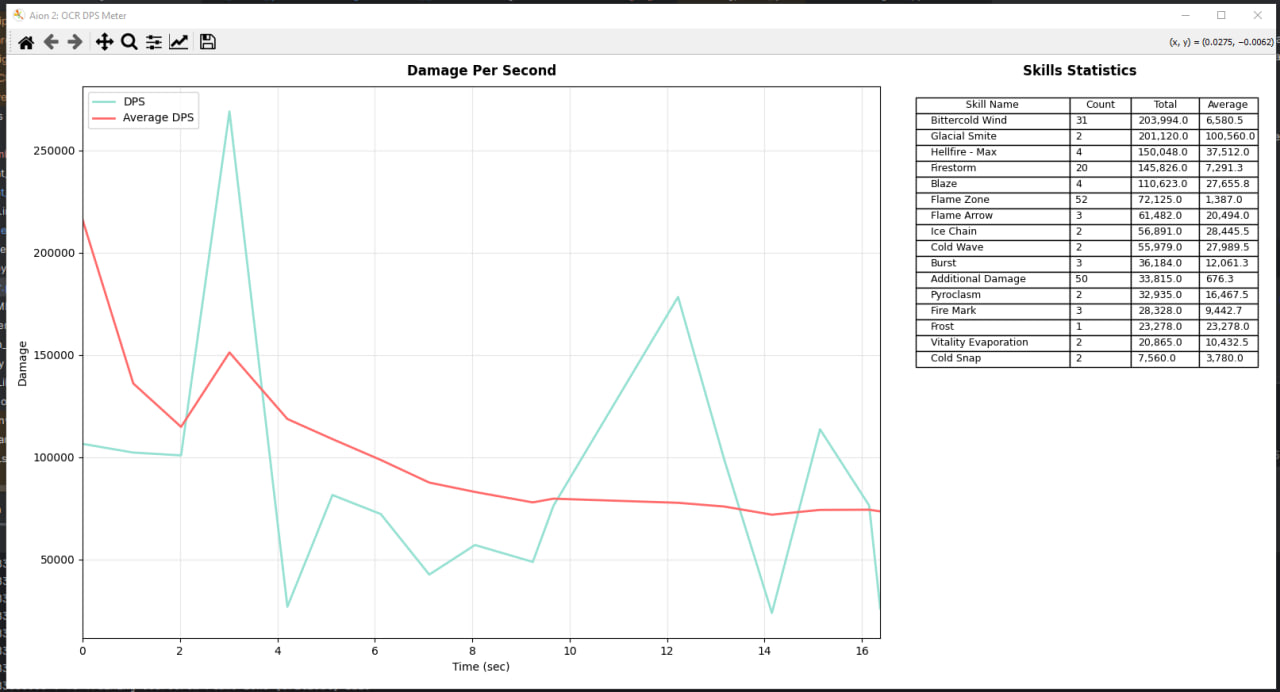
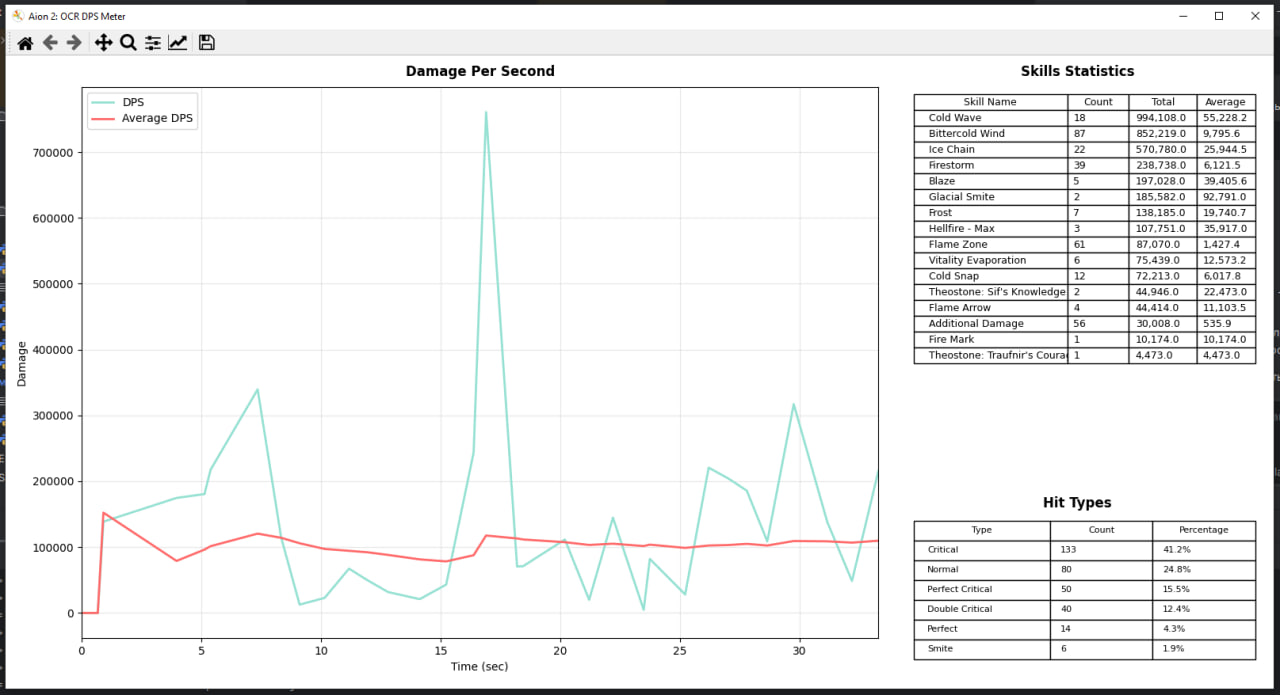
add multiplier stats

diff --git a/plotter.py b/plotter.py
@@ -18,8 +18,10 @@ class Plotter:
         self.fig = None
         self.ax = None
         self.ax_table = None
+        self.ax_multipliers = None
         self.animation_plot = None
         self.animation_table = None
+        self.animation_multipliers = None
         self.annot = None
 
     def run_blocking(self):
@@ -35,23 +37,33 @@ class Plotter:
         self.fig = plt.figure(figsize=(16, 8))
         self.fig.canvas.manager.set_window_title('Aion 2: OCR DPS Meter')
 
-        # Grid: graph (70%), table (30%)
-        gs = GridSpec(1, 2, figure=self.fig, width_ratios=[7, 3], 
-                     wspace=0.05, left=0.06, right=0.98, top=0.95, bottom=0.08)
+        # Grid: graph (70%) on left, two tables (30%) on right
+        gs_main = GridSpec(1, 2, figure=self.fig, width_ratios=[7, 3], 
+                          wspace=0.05, left=0.06, right=0.98, top=0.95, bottom=0.08)
 
-        # Main DPS graph
-        self.ax = self.fig.add_subplot(gs[0, 0])
+        # Subdivide right column into two rows for two tables
+        gs_right = gs_main[0, 1].subgridspec(2, 1, height_ratios=[3, 1], hspace=0.3)
+
+        # Main DPS graph (left side)
+        self.ax = self.fig.add_subplot(gs_main[0, 0])
         self.ax.set_xlabel('Time (sec)')
         self.ax.set_ylabel('Damage')
         self.ax.set_title('Damage Per Second', fontsize=12, fontweight='bold', pad=10)
         self.ax.grid(True, alpha=0.3)
 
-        # Skill table area
-        self.ax_table = self.fig.add_subplot(gs[0, 1])
+        # Skills table area (top right)
+        self.ax_table = self.fig.add_subplot(gs_right[0, 0])
         self.ax_table.axis('off')
         self.ax_table.set_title('Skills Statistics', fontsize=12, fontweight='bold', pad=10)
         self.ax_table.text(0.5, 0.5, 'No skill data available yet',
                            ha='center', va='center', fontsize=10, color='gray')
+
+        # Multipliers table area (bottom right)
+        self.ax_multipliers = self.fig.add_subplot(gs_right[1, 0])
+        self.ax_multipliers.axis('off')
+        self.ax_multipliers.set_title('Hit Types', fontsize=12, fontweight='bold', pad=10)
+        self.ax_multipliers.text(0.5, 0.5, 'No multiplier data available yet',
+                                ha='center', va='center', fontsize=10, color='gray')
 
         self.line_moving, = self.ax.plot([], [], label='DPS', linewidth=2, color='#95E1D3')
         self.line_avg, = self.ax.plot([], [], label='Average DPS', linewidth=2, color='#FF6B6B')
@@ -80,7 +92,49 @@ class Plotter:
             cache_frame_data=False
         )
 
+        self.animation_multipliers = FuncAnimation(
+            self.fig,
+            self._update_multipliers_animation,
+            interval=1000,
+            blit=False,
+            cache_frame_data=False
+        )
+
         plt.show()
+
+    def _prepare_multipliers_data(self):
+        multipliers_count = {}
+        total_hits = 0
+
+        # Collect multiplier statistics from all skills
+        for skill_name, skill_info in self.damage_calculator.by_skills.items():
+            for multiplier_type, mult_data in skill_info.damage_by_multiplier_type.items():
+                hit_count = len(mult_data["damage"])
+                total_hits += hit_count
+
+                if multiplier_type not in multipliers_count:
+                    multipliers_count[multiplier_type] = 0
+                multipliers_count[multiplier_type] += hit_count
+
+        if total_hits == 0:
+            return [], []
+
+        # Prepare table data
+        headers = ['Type', 'Count', 'Percentage']
+        rows = []
+
+        # Sort by count (descending)
+        sorted_multipliers = sorted(multipliers_count.items(), key=lambda x: x[1], reverse=True)
+
+        for mult_type, count in sorted_multipliers:
+            percentage = (count / total_hits * 100) if total_hits > 0 else 0
+            rows.append([
+                mult_type,
+                str(count),
+                f"{percentage:.1f}%"
+            ])
+
+        return headers, rows
 
     def _prepare_table_data(self):
         if not self.damage_calculator.by_skills:
@@ -125,11 +179,44 @@ class Plotter:
             colLabels=col_labels,
             cellLoc='left',
             loc='upper left',
-            colWidths=[0.45, 0.18, 0.20, 0.17]
+            colWidths=[0.46, 0.13, 0.22, 0.19]
         )
         table.auto_set_font_size(False)
         table.set_fontsize(9)
         table.scale(1, 1.2)
+
+        return []
+
+    def _update_multipliers_animation(self, frame):
+        """Callback for multipliers table animation"""
+        if self.ax_multipliers is None:
+            return []
+
+        self.ax_multipliers.clear()
+        self.ax_multipliers.axis('off')
+        self.ax_multipliers.set_title('Hit Types', fontsize=12, fontweight='bold', pad=10)
+
+        headers, rows = self._prepare_multipliers_data()
+
+        if not rows:
+            self.ax_multipliers.text(0.5, 0.5, 'No multiplier data available yet',
+                                    ha='center', va='center', fontsize=10, color='gray')
+            return []
+
+        cell_text = rows
+        col_labels = headers
+
+        table = self.ax_multipliers.table(
+            cellText=cell_text,
+            colLabels=col_labels,
+            cellLoc='left',
+            loc='upper left',
+            colWidths=[0.40, 0.30, 0.30]
+        )
+
+        table.auto_set_font_size(False)
+        table.set_fontsize(8)
+        table.scale(1, 1.5)
 
         return []
 

diff --git a/damage_calculator.py b/damage_calculator.py
@@ -38,14 +38,16 @@ class DamageCalculator:
             skill_damage_info.total_damage += damage_info.damage
             skill_damage_info.average = skill_damage_info.total_damage / len(skill_damage_info.damage)
 
-            if damage_info.multiplier_type not in skill_damage_info.damage_by_multiplier_type:
-                skill_damage_info.damage_by_multiplier_type[damage_info.multiplier_type] = {
-                    "damage": [],
-                    "total_damage": 0
-                }
-            multiplier_type_damage_info = skill_damage_info.damage_by_multiplier_type[damage_info.multiplier_type]
-            multiplier_type_damage_info["damage"].append(damage_info.damage)
-            multiplier_type_damage_info["total_damage"] += damage_info.damage
+            # do not take additional damage into account
+            if damage_info.skill_name != "Additional Damage":
+                if damage_info.multiplier_type not in skill_damage_info.damage_by_multiplier_type:
+                    skill_damage_info.damage_by_multiplier_type[damage_info.multiplier_type] = {
+                        "damage": [],
+                        "total_damage": 0
+                    }
+                multiplier_type_damage_info = skill_damage_info.damage_by_multiplier_type[damage_info.multiplier_type]
+                multiplier_type_damage_info["damage"].append(damage_info.damage)
+                multiplier_type_damage_info["total_damage"] += damage_info.damage
 
         time_passed_from_start_sec = self.time_passed_from_start_ms / 1000
         self.average_per_time = (self.total_damage / time_passed_from_start_sec) if time_passed_from_start_sec != 0 else 0

diff --git a/combat_log_processor.py b/combat_log_processor.py
@@ -137,7 +137,7 @@ class CombatLogParser:
                         skill_name=m.group(match.skill_name_group) if match.skill_name_group > 0 else "Additional Damage",
                         target_name=m.group(match.target_name_group) if match.target_name_group > 0 else "",
                         damage=int(m.group(match.damage_group).replace(".", "")) if match.damage_group > 0 else 0,
-                        multiplier_type=m.group(match.multiplier_type_group) if match.multiplier_type_group > 0 else "",
+                        multiplier_type=self._prepare_multiplier_type(m.group(match.multiplier_type_group)) if match.multiplier_type_group > 0 else "Normal",
                     ))
                     matched = True
                     break
@@ -145,6 +145,9 @@ class CombatLogParser:
                 print("-", log)
         return result
 
+    def _prepare_multiplier_type(self, multiplier_type):
+        multiplier_type = multiplier_type.replace("[", "").replace("]", "")
+        return multiplier_type if multiplier_type != "" else "Normal"
 
     def _get_new_damage(self, logs, timestamp):
         new_logs = self._detect_new_logs(logs)
